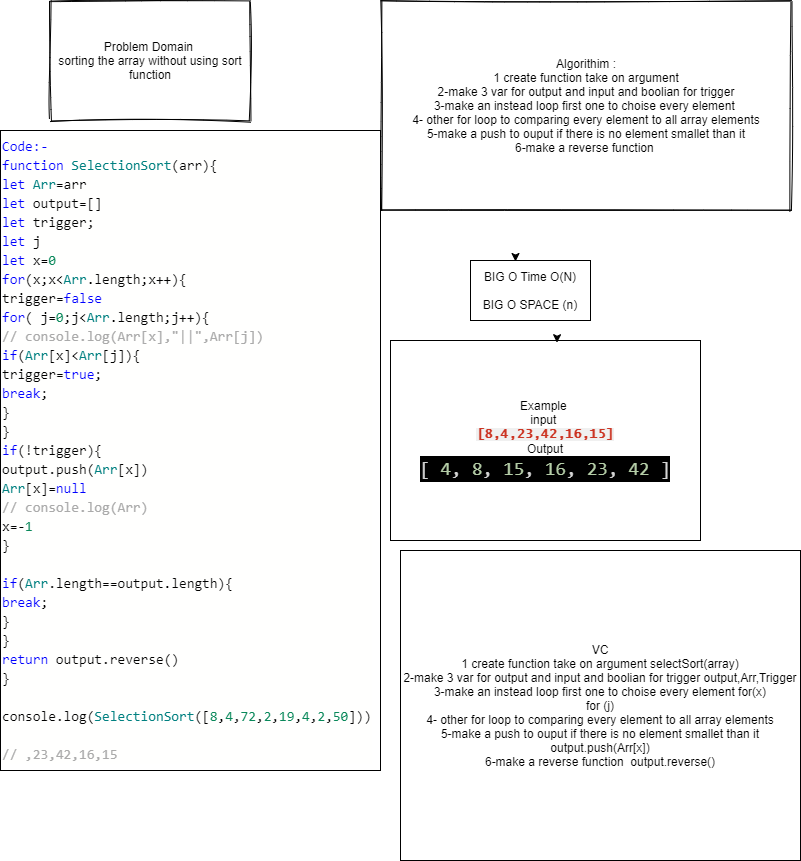
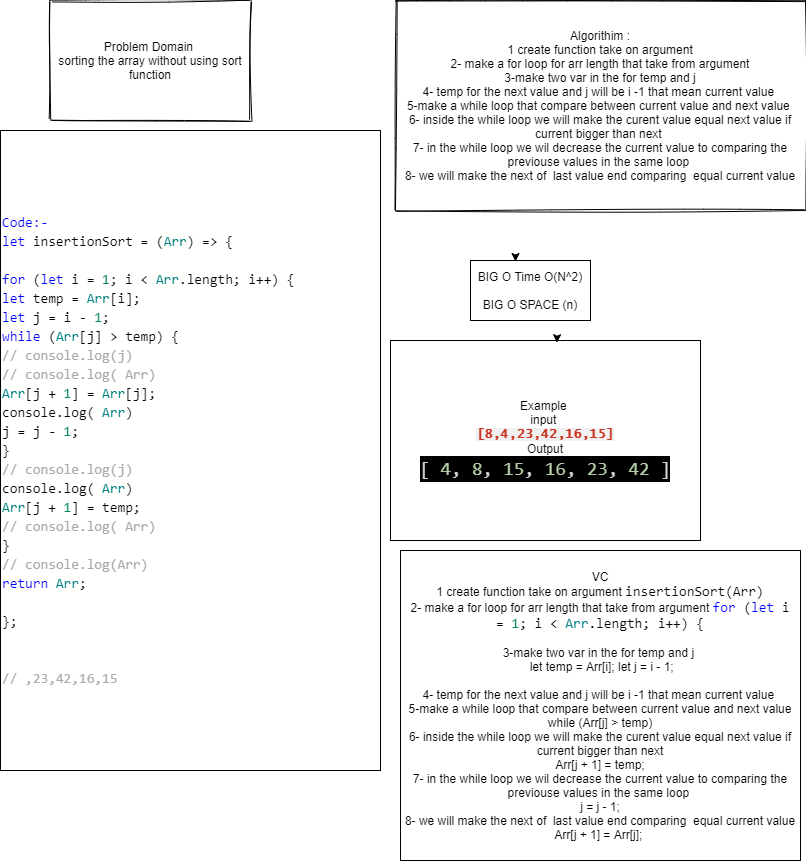
d

diff --git a/challenges/sort/sort.js b/challenges/sort/sort.js
@@ -1,35 +1,30 @@
-function SelectionSort(arr){
-    let Arr=arr
-    let output=[]
-    let trigger;
-    let j
-    let x=0
-    for(x;x<Arr.length;x++){
-    trigger=false
-      
-    for( j=0;j<Arr.length;j++){
-      // console.log(Arr[x],"||",Arr[j])
-      if(Arr[x]<Arr[j]){
-      
-    trigger=true;
-    break;
+let insertionSort = (Arr) => {
+
+  for (let i = 1; i < Arr.length; i++) {
+      let temp = Arr[i];
+      let j = i - 1;
+      while (Arr[j] > temp) {
+        // console.log(j)
+        // console.log( Arr)
+          Arr[j + 1] = Arr[j];
+        // console.log( Arr)
+          j = j - 1;
+          
       }
-    }
-    if(!trigger){
-    output.push(Arr[x])
-    Arr[x]=null
-    // console.log(Arr)
-    x=-1
-    }
-    
-    if(Arr.length==output.length){
-      break;
-    }
-    }
-    return output.reverse()
-    }
+      // console.log(j)
+      Arr[j + 1] = temp;
+        // console.log( Arr)
+  }
+  // console.log(Arr)
+  return Arr;
+
+};
+
+
+
+
     
     // console.log(SelectionSort([8,4,23,42,16,15]))
     
     // ,23,42,16,15
-module.exports=  SelectionSort
+module.exports=  insertionSort

diff --git a/challenges/sort/BLOG.md b/challenges/sort/BLOG.md
@@ -3,33 +3,35 @@ Trace
 
 [8,4,23,42,16,15]
 
-make a for loop to get every element in array and declare 3 variables output and input array and boolian
+make a for loop for arr that have j -1 and temp of the value of next arr value and j-1 for current 
 
 })
 
 2({
+     [8,4,23,42,16,15] --->[4,8,23,42,16,15]
 
-output=[42]
-
-make instead loop to compare every element to all array if the element biggest one will push it in output and change the index of biggest one to null to not comparing again and make the first for loop  looping again by make the x =-1
-
+make a while loop and make the condition while current or previouse value bigger than next value the current value will be equal next value and make j -1 to sure if the all previouse values will be smaller than current . in this case a while loop will be looping just one time because 8 > 4 and there is no value before the 4
 
 })
 
 3({
 
-output=[42,23]
-it will looping again and comparing again and it will push other biggest one
+
+[4,8,23,42,16,15] -->[4,8,23,42,16,15] -->[4,8,23,42,16,15] 
+ 
+
+
+now the temp will be 23 and prev value 8 it will not enter the while loop and it will run last command that Arr[j+1]=temp in this case j=1 and it will not enter the while loop so the j it will be as is so  Arr[j+1]=temp in this case will be Arr[2]=temp that mean it will be same thing nothing change and same thing in next case 
 
 })
 
 4({
-we will got this result 
-output=[42 ,23 , 16 , 15 , 8, 4 ]
+[4,8,23,42,16,15] -->[4,8,16,23,42,15]
 
-then return output.revrse() to get the result what we want
+in this situation temp =16 and the prev value 42 --> j=3 so the while loop will etering but in this case the while loop will looping 2 times first time it will comparing between 42 and 16 and the j will decrease 1 and 16 will equal 42 and it will looping next time for comparing between previouse value will be 23 and it bigger than temp value so it will enter and 42 it will equal 23 and 16 it will end looping by comparing between 16 and 8 so it will run last command that mean first 23 will equal 16 
+[4,8,23,42,16,15]-->[4,8,23,42,42,15]-->[4,8,23,23,42,15]-->[4,8,16,23,42,15]
 
-[ 4, 8, 15, 16, 23, 42 ]
+and same thing for next case 
 
 })
 
